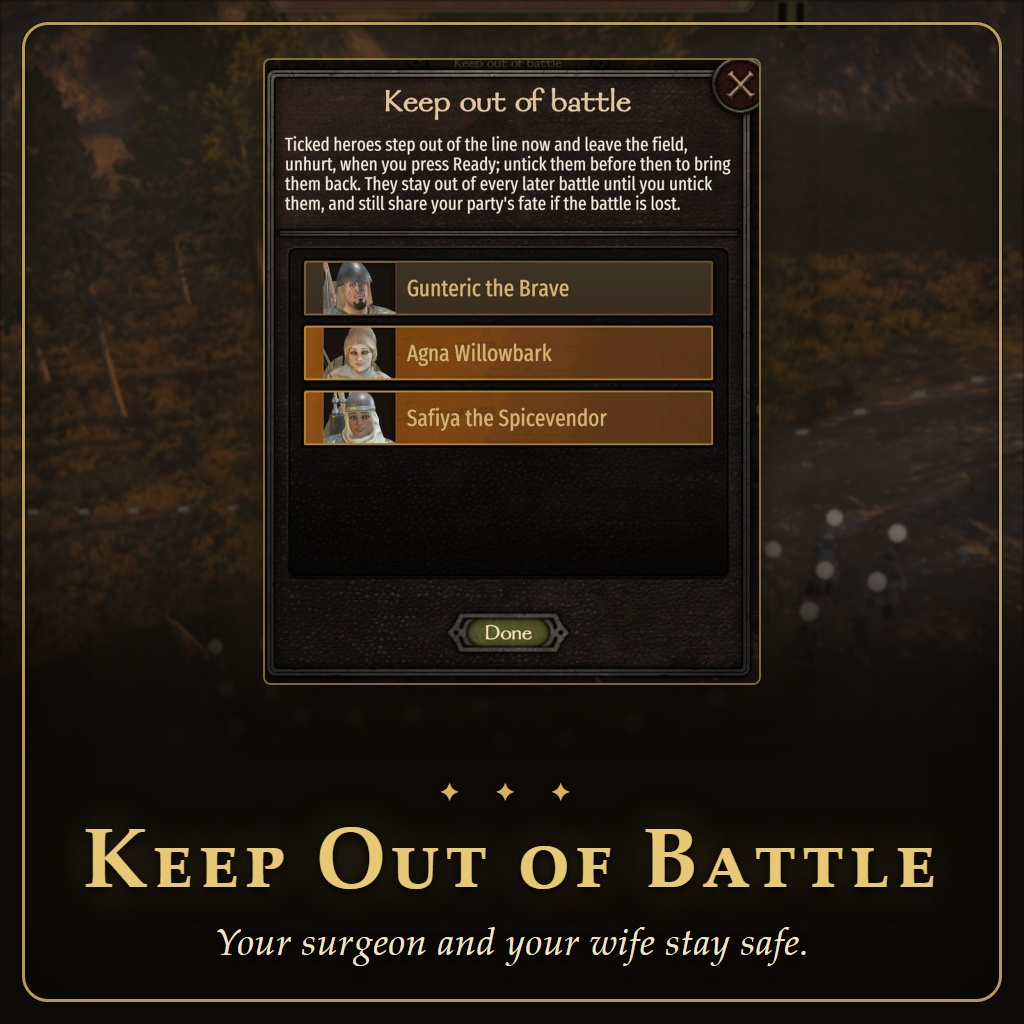
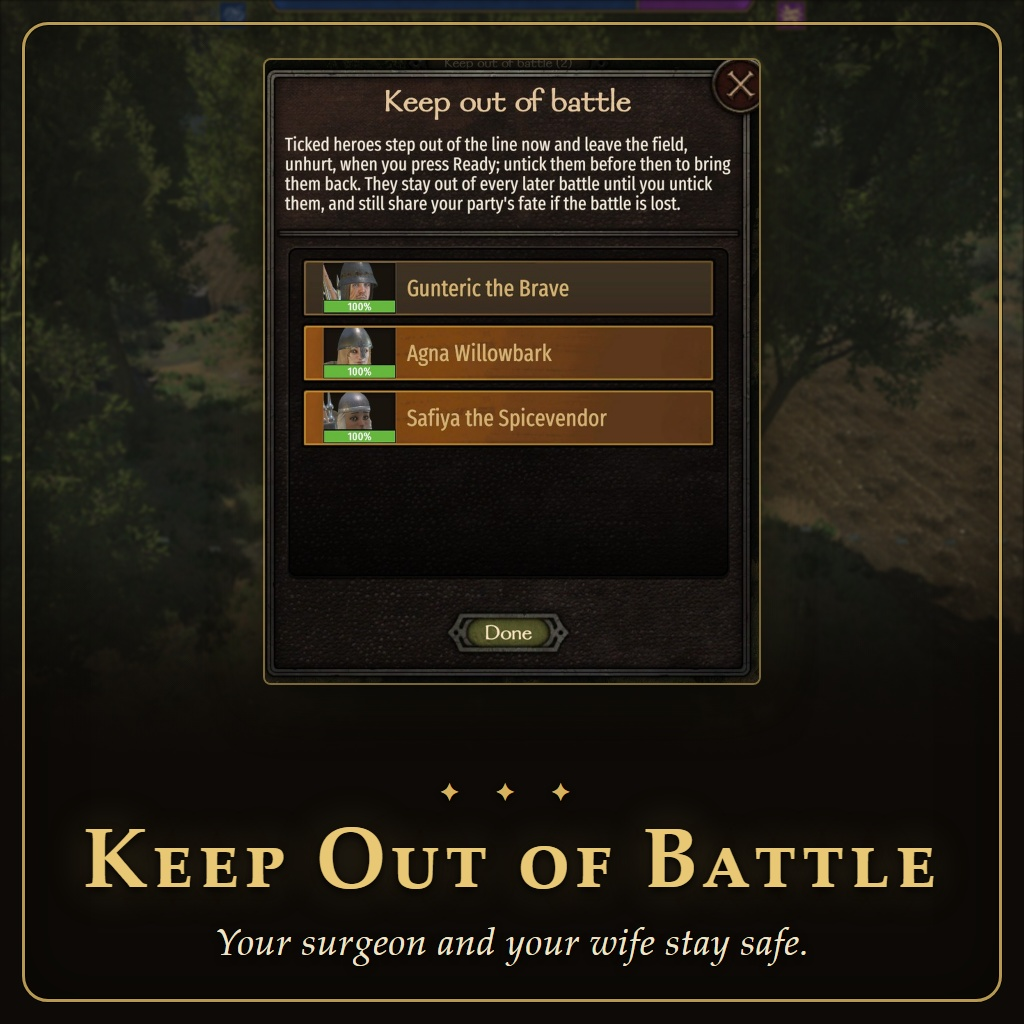
v1.2.0: health bars in the picker; new screenshots and thumbnail
- module/SubModule.xml: v1.1.0 -> v1.2.0 (each hero's portrait in the picker shows a health bar
  and percentage, red when wounded, gold when hurt, green near full; suggested by nedvedii1).
- README and the Steam/Nexus descriptions mention the health on the portraits.
- docs/screenshots: the 2026-10-24 F12 shots, unedited like the last ones (the picker with
  health bars; the Order of Battle with the button and its tooltip).
- docs/thumbnail.jpg rebuilt from them with tools/make_thumbnail.py.

diff --git a/README.md b/README.md
@@ -11,6 +11,7 @@ Keep your surgeon, your steward wife or any other non-fighter out of battle. On 
 press **Keep out of battle** and tick who stays behind. They step out of the line, leave the field unhurt
 when you press Ready, and can't be hurt in auto-resolve either. Your choice is remembered for every later
 battle, on land and at sea, until you untick them, and the button shows how many are kept out.
+Each hero's portrait in the list shows their health, so you can see at a glance who is wounded.
 
 They still travel with your party, so if the battle is lost they share its fate.
 
